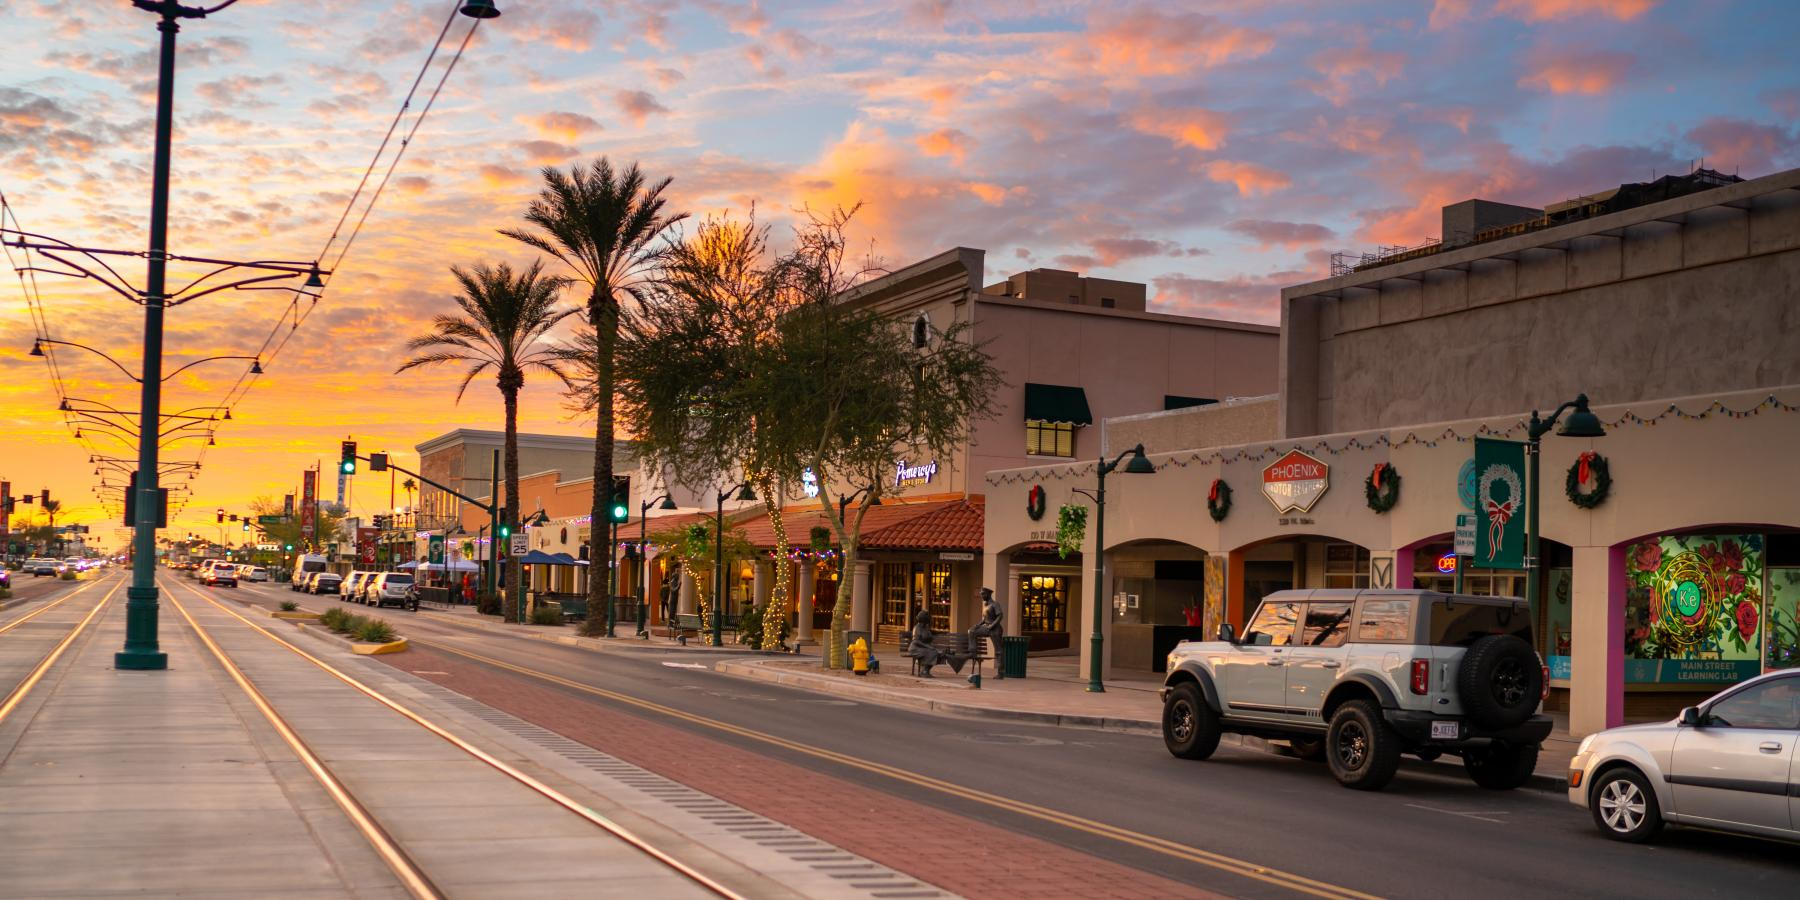
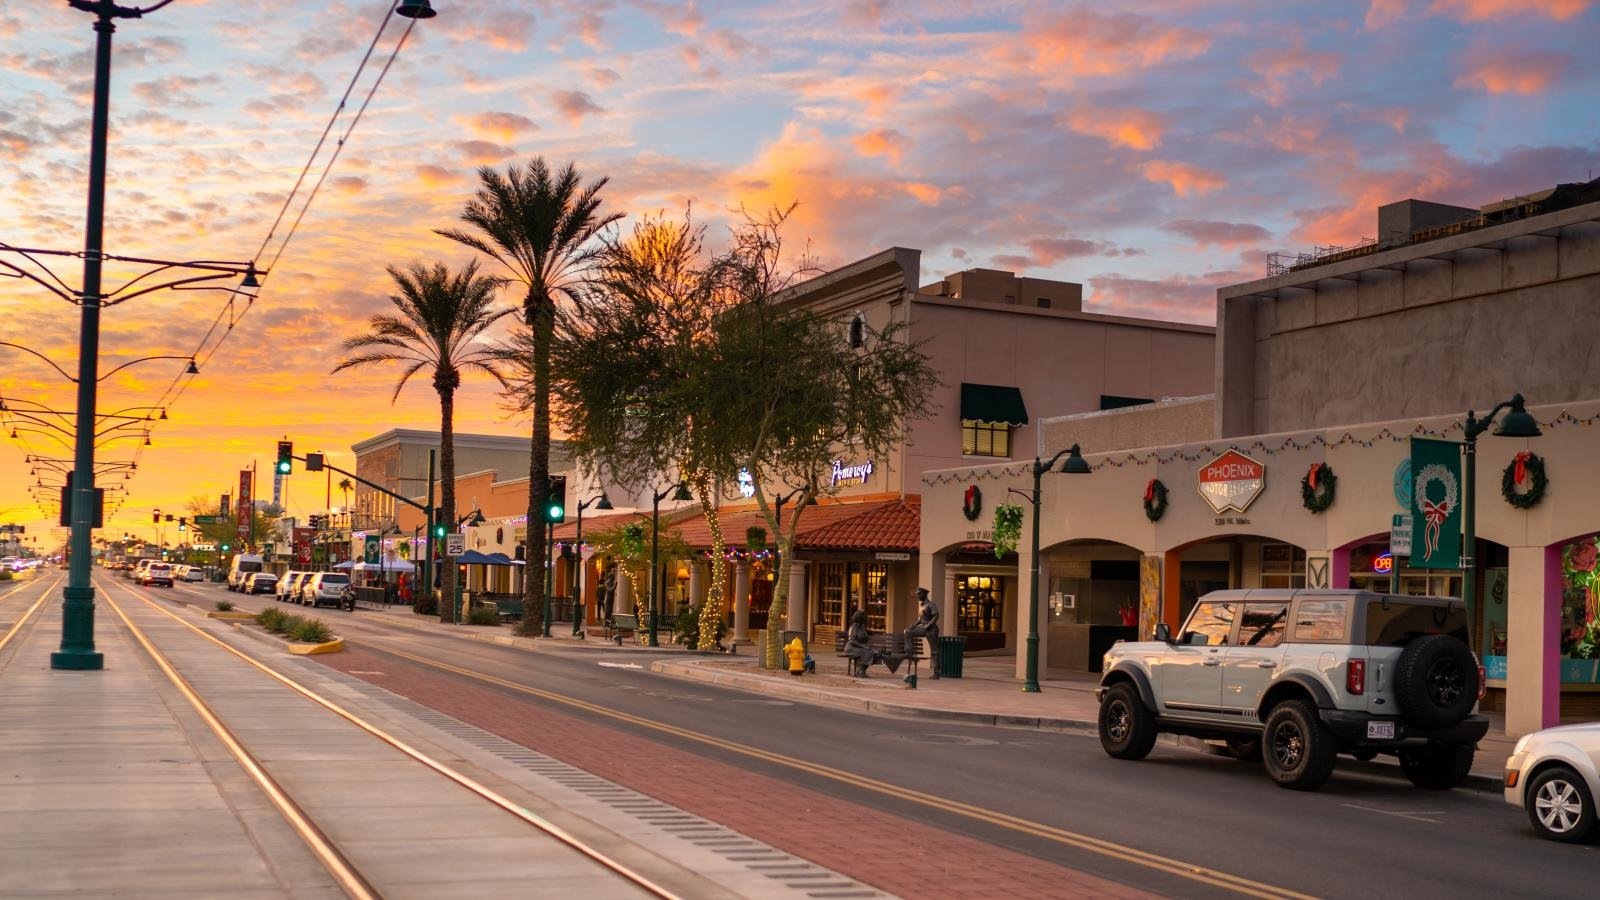
webp activity

diff --git a/index.html b/index.html
@@ -55,7 +55,9 @@
                     <li>05:
                         <a href="lesson05/bom.html">Book of Mormon Fav Chapters</a> |
                     </li>
-                    <li>06:</li>
+                    <li>06:
+                        <a href="lesson03/images/landscape.webp">WebP</a>
+                    </li>
                     <li>07:</li>
                     <li>08:</li>
                     <li>09:</li>
